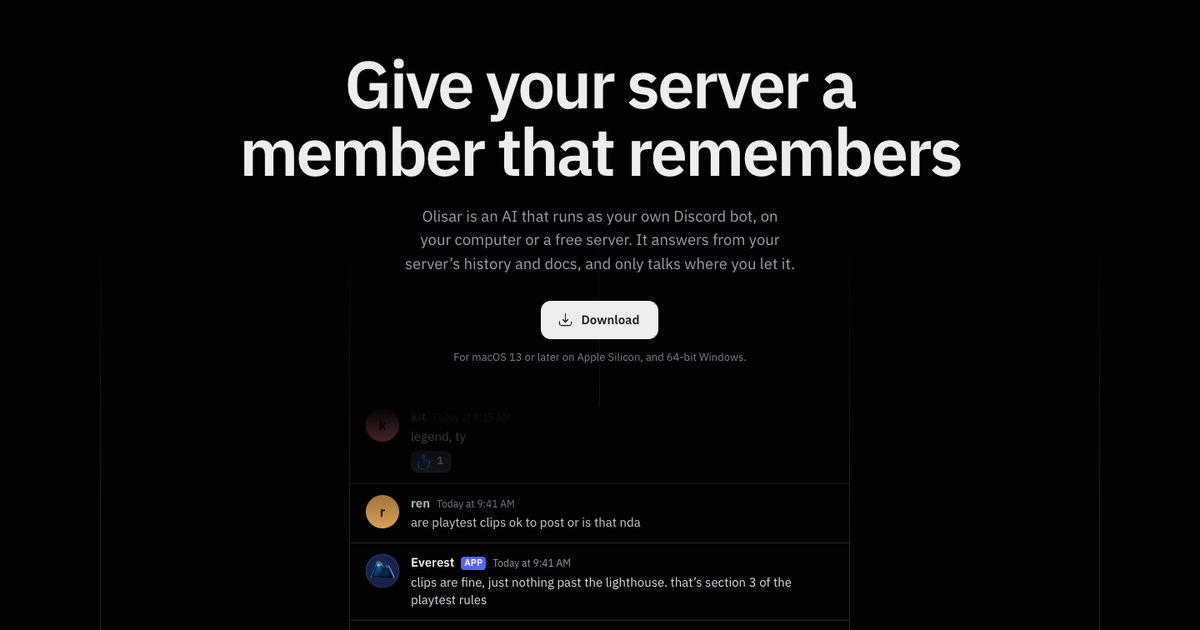
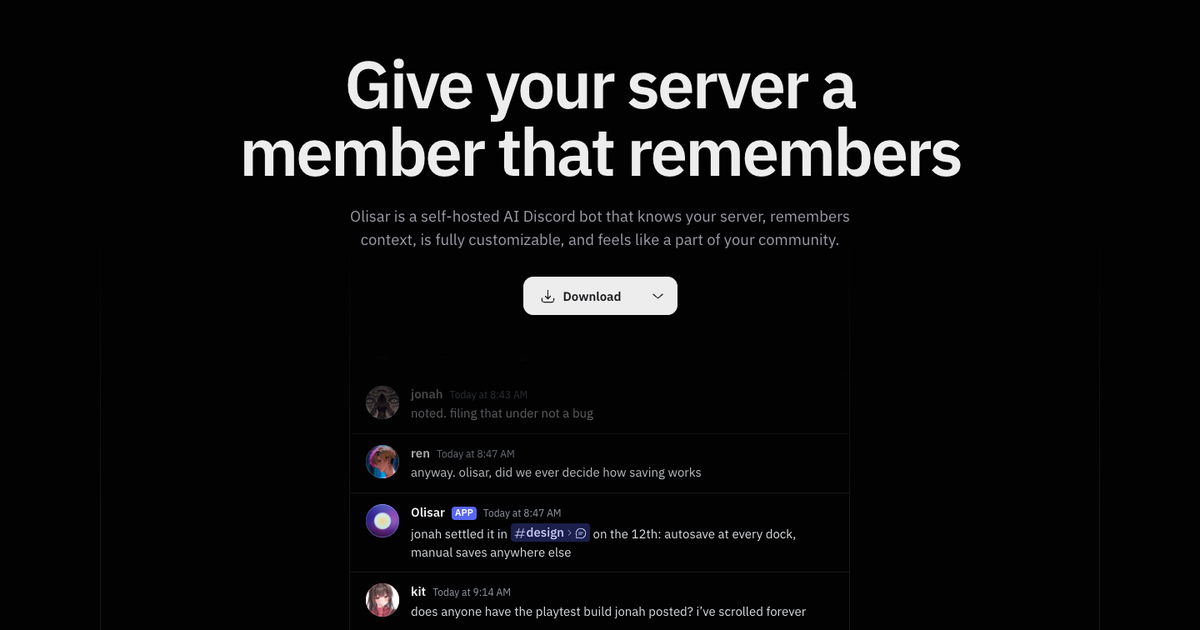
Give the landing page's example members and bots their own faces and names.
The hero conversation showed letter circles for its members and called the bot Everest. The members now have their own pictures, and the bot is Olisar, in its name, its mentions and its typing indicator.

The profile figure beside "Customize everything" makes the point that the bot is yours: it now cycles through six bots, each with its own picture, name, tag, custom status and About me, and shuffles their order on every load. A bio renders the way Discord's About me does, with bold and line breaks, and the card keeps one height as it changes. The battle-royale, robot and astronaut pictures are gone, replaced by a sci-fi HUD, a wireframe globe and the owner's own images.

The closing section now reads "The Discord bot, reimagined", and the link preview image is recaptured with the new avatars.

Changed region(s): [[0.2775, 0.3317, 0.7092, 0.573], [0.2775, 0.7841, 0.6783, 0.9952], [0.3083, 0.6032, 0.5858, 0.754]]

diff --git a/docs/index.html b/docs/index.html
@@ -446,7 +446,8 @@
   .dprof-user { font-size: 13.5px; color: var(--dc-muted); }
   .dprof-sec { margin-top: 12px; padding-top: 12px; border-top: 1px solid rgb(255 255 255 / .07); }
   .dprof-h { font-size: 12px; font-weight: 700; letter-spacing: .02em; text-transform: uppercase; color: var(--dc-head); margin-bottom: 6px; }
-  .dprof-sec p { font-size: 13.5px; line-height: 1.45; }
+  .dprof-sec p { font-size: 13.5px; line-height: 1.45; min-height: calc(1.45em * 4); }
+  .dprof-sec strong { color: var(--dc-head); font-weight: 700; }
 
   /* Channels */
   .chan .crow { display: grid; grid-template-columns: minmax(0, 1fr) auto; row-gap: 6px; }
@@ -673,11 +674,11 @@
           <li class="dm" data-t="527" data-start data-wait="1700">
             <span class="dm-av" style="--av:#e0a458">r<img src="assets/avatars/ren.webp" alt="" onerror="this.remove()" /></span>
             <div><div class="dm-head"><span class="dm-name">ren</span><time class="dm-time">Today at 8:47 AM</time></div>
-            <p class="dm-text">anyway. everest, did we ever decide how saving works</p></div>
+            <p class="dm-text">anyway. olisar, did we ever decide how saving works</p></div>
           </li>
           <li class="dm" data-t="527" data-wait="400" data-typing="1600">
             <span class="dm-av">E<img src="assets/olisar-pfp.webp" alt="" onerror="this.remove()" /></span>
-            <div><div class="dm-head"><span class="dm-name">Everest</span><span class="dm-app">APP</span><time class="dm-time">Today at 8:47 AM</time></div>
+            <div><div class="dm-head"><span class="dm-name">Olisar</span><span class="dm-app">APP</span><time class="dm-time">Today at 8:47 AM</time></div>
             <p class="dm-text">jonah settled it in <span class="dc-chip"><svg aria-hidden="true"><use href="#i-hash"/></svg>design<svg class="sep" aria-hidden="true"><use href="#i-chev-right"/></svg><svg aria-hidden="true"><use href="#i-chat"/></svg><span class="sr-only">(link to the message)</span></span> on the 12th: autosave at every dock, manual saves anywhere else</p></div>
           </li>
           <li class="dm" data-t="554" data-wait="3000">
@@ -687,14 +688,14 @@
           </li>
           <li class="dm" data-t="554" data-wait="500" data-typing="1500">
             <span class="dm-av">E<img src="assets/olisar-pfp.webp" alt="" onerror="this.remove()" /></span>
-            <div><div class="dm-head"><span class="dm-name">Everest</span><span class="dm-app">APP</span><time class="dm-time">Today at 9:14 AM</time></div>
+            <div><div class="dm-head"><span class="dm-name">Olisar</span><span class="dm-app">APP</span><time class="dm-time">Today at 9:14 AM</time></div>
             <p class="dm-text">jonah put it in <span class="dc-chip"><svg aria-hidden="true"><use href="#i-hash"/></svg>playtest<svg class="sep" aria-hidden="true"><use href="#i-chev-right"/></svg><svg aria-hidden="true"><use href="#i-chat"/></svg><span class="sr-only">(link to the message)</span></span> on tuesday, it’s build 0.4.2</p></div>
           </li>
           <li class="dm" data-t="555" data-wait="2700" data-react="1100">
             <span class="dm-av" style="--av:#f2728a">k<img src="assets/avatars/kit.webp" alt="" onerror="this.remove()" /></span>
             <div><div class="dm-head"><span class="dm-name">kit</span><time class="dm-time">Today at 9:15 AM</time></div>
             <p class="dm-text">legend, ty</p>
-            <div class="dm-reacts"><span class="dm-react"><span class="emo" aria-hidden="true">👍</span><span class="sr-only">Everest reacted with a thumbs-up:</span>1</span></div></div>
+            <div class="dm-reacts"><span class="dm-react"><span class="emo" aria-hidden="true">👍</span><span class="sr-only">Olisar reacted with a thumbs-up:</span>1</span></div></div>
           </li>
           <li class="dm" data-t="581" data-wait="2800">
             <span class="dm-av" style="--av:#e0a458">r<img src="assets/avatars/ren.webp" alt="" onerror="this.remove()" /></span>
@@ -703,7 +704,7 @@
           </li>
           <li class="dm" data-t="581" data-wait="400" data-typing="1700">
             <span class="dm-av">E<img src="assets/olisar-pfp.webp" alt="" onerror="this.remove()" /></span>
-            <div><div class="dm-head"><span class="dm-name">Everest</span><span class="dm-app">APP</span><time class="dm-time">Today at 9:41 AM</time></div>
+            <div><div class="dm-head"><span class="dm-name">Olisar</span><span class="dm-app">APP</span><time class="dm-time">Today at 9:41 AM</time></div>
             <p class="dm-text">clips are fine, just nothing past the lighthouse. that’s section 3 of the playtest rules</p></div>
           </li>
           <li class="dm dm-sys" data-t="602" data-wait="3000">
@@ -712,7 +713,7 @@
           </li>
           <li class="dm" data-t="602" data-wait="300" data-typing="1600">
             <span class="dm-av">E<img src="assets/olisar-pfp.webp" alt="" onerror="this.remove()" /></span>
-            <div><div class="dm-head"><span class="dm-name">Everest</span><span class="dm-app">APP</span><time class="dm-time">Today at 10:02 AM</time></div>
+            <div><div class="dm-head"><span class="dm-name">Olisar</span><span class="dm-app">APP</span><time class="dm-time">Today at 10:02 AM</time></div>
             <p class="dm-text">welcome pixelwitch! build and rules are in <span class="dc-chip"><svg aria-hidden="true"><use href="#i-hash"/></svg>playtest</span>. you’ve walked in on a very serious boat physics debate, pick a side whenever</p></div>
           </li>
           <li class="dm" data-t="690" data-wait="3400">
@@ -722,23 +723,23 @@
           </li>
           <li class="dm" data-t="690" data-wait="400" data-typing="2000">
             <span class="dm-av">E<img src="assets/olisar-pfp.webp" alt="" onerror="this.remove()" /></span>
-            <div><div class="dm-head"><span class="dm-name">Everest</span><span class="dm-app">APP</span><time class="dm-time">Today at 11:30 AM</time></div>
+            <div><div class="dm-head"><span class="dm-name">Olisar</span><span class="dm-app">APP</span><time class="dm-time">Today at 11:30 AM</time></div>
             <p class="dm-text">tide patch shipped thursday, jonah wants feedback on the new reel sounds, and friday’s playtest moved to 7pm. also boats. you’ll hear about the boats</p></div>
           </li>
           <li class="dm" data-t="725" data-wait="3600">
             <span class="dm-av" style="--av:#2dd4bf">j<img src="assets/avatars/jonah.webp" alt="" onerror="this.remove()" /></span>
             <div><div class="dm-head"><span class="dm-name">jonah</span><time class="dm-time">Today at 12:05 PM</time></div>
-            <p class="dm-text"><span class="dc-chip">@Everest</span> remind everyone here an hour before friday’s playtest</p></div>
+            <p class="dm-text"><span class="dc-chip">@Olisar</span> remind everyone here an hour before friday’s playtest</p></div>
           </li>
           <li class="dm" data-t="725" data-wait="300" data-typing="1200">
             <span class="dm-av">E<img src="assets/olisar-pfp.webp" alt="" onerror="this.remove()" /></span>
-            <div><div class="dm-head"><span class="dm-name">Everest</span><span class="dm-app">APP</span><time class="dm-time">Today at 12:05 PM</time></div>
+            <div><div class="dm-head"><span class="dm-name">Olisar</span><span class="dm-app">APP</span><time class="dm-time">Today at 12:05 PM</time></div>
             <p class="dm-text">done, i’ll post here friday at 6</p></div>
           </li>
         </ol>
       </div></div>
       <figcaption class="convo-foot">
-        <span class="typing" aria-hidden="true"><span class="dots"><i></i><i></i><i></i></span><span><b>Everest</b> is typing…</span></span>
+        <span class="typing" aria-hidden="true"><span class="dots"><i></i><i></i><i></i></span><span><b>Olisar</b> is typing…</span></span>
         <span class="convo-cap" id="convo-cap">Example conversation in #general</span>
       </figcaption>
     </figure>
@@ -759,19 +760,20 @@
         <div class="frag" aria-hidden="true">
           <div class="dprof">
             <div class="dprof-banner"></div>
-            <div class="dprof-top"><span class="dprof-av" data-faces="olisar-pfp.webp pfp/agent.webp pfp/hud.webp pfp/globe.webp pfp/smile.webp">E<img src="assets/olisar-pfp.webp" alt="" onerror="this.remove()" /></span><span class="dprof-status"></span><span class="dprof-bubble">watching the boat debate<i></i><i></i></span></div>
+            <div class="dprof-top"><span class="dprof-av" data-faces>O<img src="assets/olisar-pfp.webp" alt="" onerror="this.remove()" /></span><span class="dprof-status"></span><span class="dprof-bubble"><span data-face-status>watching the boat debate</span><i></i><i></i></span></div>
             <div class="dprof-body">
-              <div class="dprof-name">Everest <span class="dm-app">APP</span></div>
-              <div class="dprof-user">Everest#4127</div>
+              <div class="dprof-name"><span data-face-name>Olisar</span> <span class="dm-app">APP</span></div>
+              <div class="dprof-user" data-face-user>Olisar#4127</div>
               <div class="dprof-sec">
                 <div class="dprof-h">About me</div>
-                <p>The regular at Lanternfish. Ask me where anything was posted.</p>
+                <p data-face-bio>Lanternfish's AI bot, ping me and say hello</p>
               </div>
             </div>
           </div>
         </div>
       </div>
-      <figcaption class="sr-only">Everest’s Discord profile: its own name, an avatar that cycles through faces an owner might pick, a custom status, the APP badge, and an About me written by its owner.</figcaption>
+      <figcaption class="sr-only">A bot’s Discord profile, cycling through names and avatars an owner might give it, a custom status, the APP badge, and an About me written by its owner.</figcaption>
+      <script type="application/json" id="bot-faces">[{"src": "olisar-pfp.webp", "name": "Olisar", "tag": "4127", "status": "watching the boat debate", "bio": "Lanternfish's AI bot, ping me and say hello"}, {"src": "pfp/agent.webp", "name": "<-OMNIBOT->", "tag": "0451", "status": "tracking raid night", "bio": "**RED NEBULA VICTORY**\nggs, gfs, and smd. post screenshots in #screenshots for review"}, {"src": "pfp/hud.webp", "name": "1n73rfac3", "tag": "7331", "status": "reading stack traces", "bio": "[START] Hello there, I'm 1n73rfac3, our AI bot. Systems are currently running at 99.28% efficiency. Ping or DM me anything. [END]"}, {"src": "pfp/globe.webp", "name": "Everest", "tag": "2026", "status": "planning the next trip", "bio": "Currently planning 238,092 trips. Share yours in #routes. Please stop sending me feet pics as well."}, {"src": "pfp/smile.webp", "name": "bob", "tag": "0007", "status": "making tea", "bio": "hi im bob ! im bad at chess so plz forgive, ask me to create an image of you :D"}, {"src": "pfp/kaguya.webp", "name": "~kaguya~", "tag": "0520", "status": "watching the cherry blossoms", "bio": "haiii OwO ~~~"}]</script>
     </figure>
 
     <div class="cell txt" data-t="l" style="--c:2;--r:1;--i:1" data-k="name">
@@ -1023,7 +1025,7 @@
   <section class="sheet grid draw" aria-labelledby="c1">
     <div class="cell close" data-e="l r" data-t="l r">
       <div class="glass-wrap"><img class="glass" src="assets/olisar-glass.webp" alt="" width="1200" height="1200" loading="lazy" decoding="async" /></div>
-      <h2 id="c1">Give your server a member that remembers</h2>
+      <h2 id="c1">The Discord bot, reimagined</h2>
       <div class="dl" data-dl>
         <div class="split">
           <a class="btn primary lg split-main" href="https://github.com/gcrft123/olisar/releases/latest" data-dl-btn><svg class="i" aria-hidden="true"><use href="#i-download"/></svg><span>Download</span></a>
@@ -1164,18 +1166,33 @@
       const [r, g, b, k] = [...buckets.values()].sort((a, z) => z[3] - a[3])[0] || [40, 40, 60, 1]
       return `color-mix(in srgb, rgb(${Math.round(r / k)} ${Math.round(g / k)} ${Math.round(b / k)}) 78%, #05060c)`
     }
-    Promise.all(face.dataset.faces.split(/\s+/).map(load)).then((imgs) => {
+    // Every load deals the bots in a new order; each carries its own name, tag, status and
+    // About me, which change with the picture.
+    const entries = JSON.parse(document.getElementById('bot-faces').textContent)
+    for (let k = entries.length - 1; k > 0; k--) { const j = Math.floor(Math.random() * (k + 1)); [entries[k], entries[j]] = [entries[j], entries[k]] }
+    const field = (name) => document.querySelector(`[data-face-${name}]`)
+    const show = (img) => {
+      const e = img.face; if (!e) return
+      field('name').textContent = e.name; field('user').textContent = `${e.name}#${e.tag}`
+      field('status').textContent = e.status
+      // An About me renders like Discord's: **bold** and line breaks, everything else as text.
+      field('bio').innerHTML = e.bio.replace(/&/g, '&amp;').replace(/</g, '&lt;').replace(/>/g, '&gt;')
+        .replace(/\*\*(.+?)\*\*/g, '<strong>$1</strong>').replace(/\n/g, '<br>')
+    }
+    Promise.all(entries.map((e) => load(e.src).then((img) => { if (img) img.face = e; return img }))).then((imgs) => {
       const faces = imgs.filter(Boolean)
       if (faces.length < 2) return
       face.querySelector('img')?.remove()
       faces.forEach((img, i) => { img.alt = ''; img.className = i ? 'face' : 'face on'; img.dataset.tint = tint(img); face.append(img) })
       banner.style.backgroundColor = faces[0].dataset.tint
+      show(faces[0])
       let i = 0, seen = false
       new IntersectionObserver(([e]) => { seen = e.isIntersecting }).observe(face)
       setInterval(() => {
         if (!seen || document.hidden) return
         faces[i].classList.remove('on'); i = (i + 1) % faces.length; faces[i].classList.add('on')
         banner.style.backgroundColor = faces[i].dataset.tint
+        show(faces[i])
       }, reduce ? 4000 : 2600)
     })
   }
@@ -1366,14 +1383,14 @@
     appear(reacts.firstElementChild, reduce ? [{ opacity: 0 }, { opacity: 1 }] : [{ opacity: 0, transform: 'scale(.6)' }, { opacity: 1, transform: 'none' }], reduce ? 600 : 260)
   }
   // The page opens on members talking among themselves; the first animated message is the one
-  // that brings Everest in. Every later lap plays the whole ring, chatter included.
+  // that brings Olisar in. Every later lap plays the whole ring, chatter included.
   const first = Math.max(0, ring.findIndex((li) => li.hasAttribute('data-start')))
   async function play() {
     for (let lap = 0; ; lap++) {
       for (const li of lap === 0 ? ring.slice(first) : ring) {
         await sleep(+li.dataset.wait || 2000)
         if (li.dataset.typing) {
-          typing.querySelector('b').textContent = 'Everest'
+          typing.querySelector('b').textContent = 'Olisar'
           typing.classList.add('on'); await sleep(+li.dataset.typing); typing.classList.remove('on')
         }
         const node = add(li, lap)

diff --git a/PRODUCT.md b/PRODUCT.md
@@ -55,7 +55,7 @@ Everything below is true of 2.0. The landing page describes 2.0 and goes live wh
 - Name: Olisar. Two marks: the brand mark is a violet squircle holding a glowing pale orb (`docs/logo.png`, sources in `icons/Icons Logo/` and `icons/ico_brand.icon/`), used on brand surfaces like the website and README; the dashboard's own mark is a slate shield with a navy star (`web/public/logo.png`, the desktop dock and tray icons). Don't recolor either.
 - Voice: second person, plainspoken, lightly opinionated; calm, competent, a little dry. Sentence case everywhere, US spelling, no emoji in the interface. Full rules in `web/DESIGN.md` under Brand & voice.
 - The landing page uses the console's design system (`web/DESIGN.md`), by the user's direction. The previous landing page is not a reference.
-- In demos, the bot appears under an owner's own name and avatar rather than as "Olisar", because that is how it runs.
+- The landing page's example conversation shows the bot as Olisar; its profile figure cycles through names and avatars an owner might give their bot, because each install runs as the owner's own bot.
 
 ## Evidence on Hand
 
